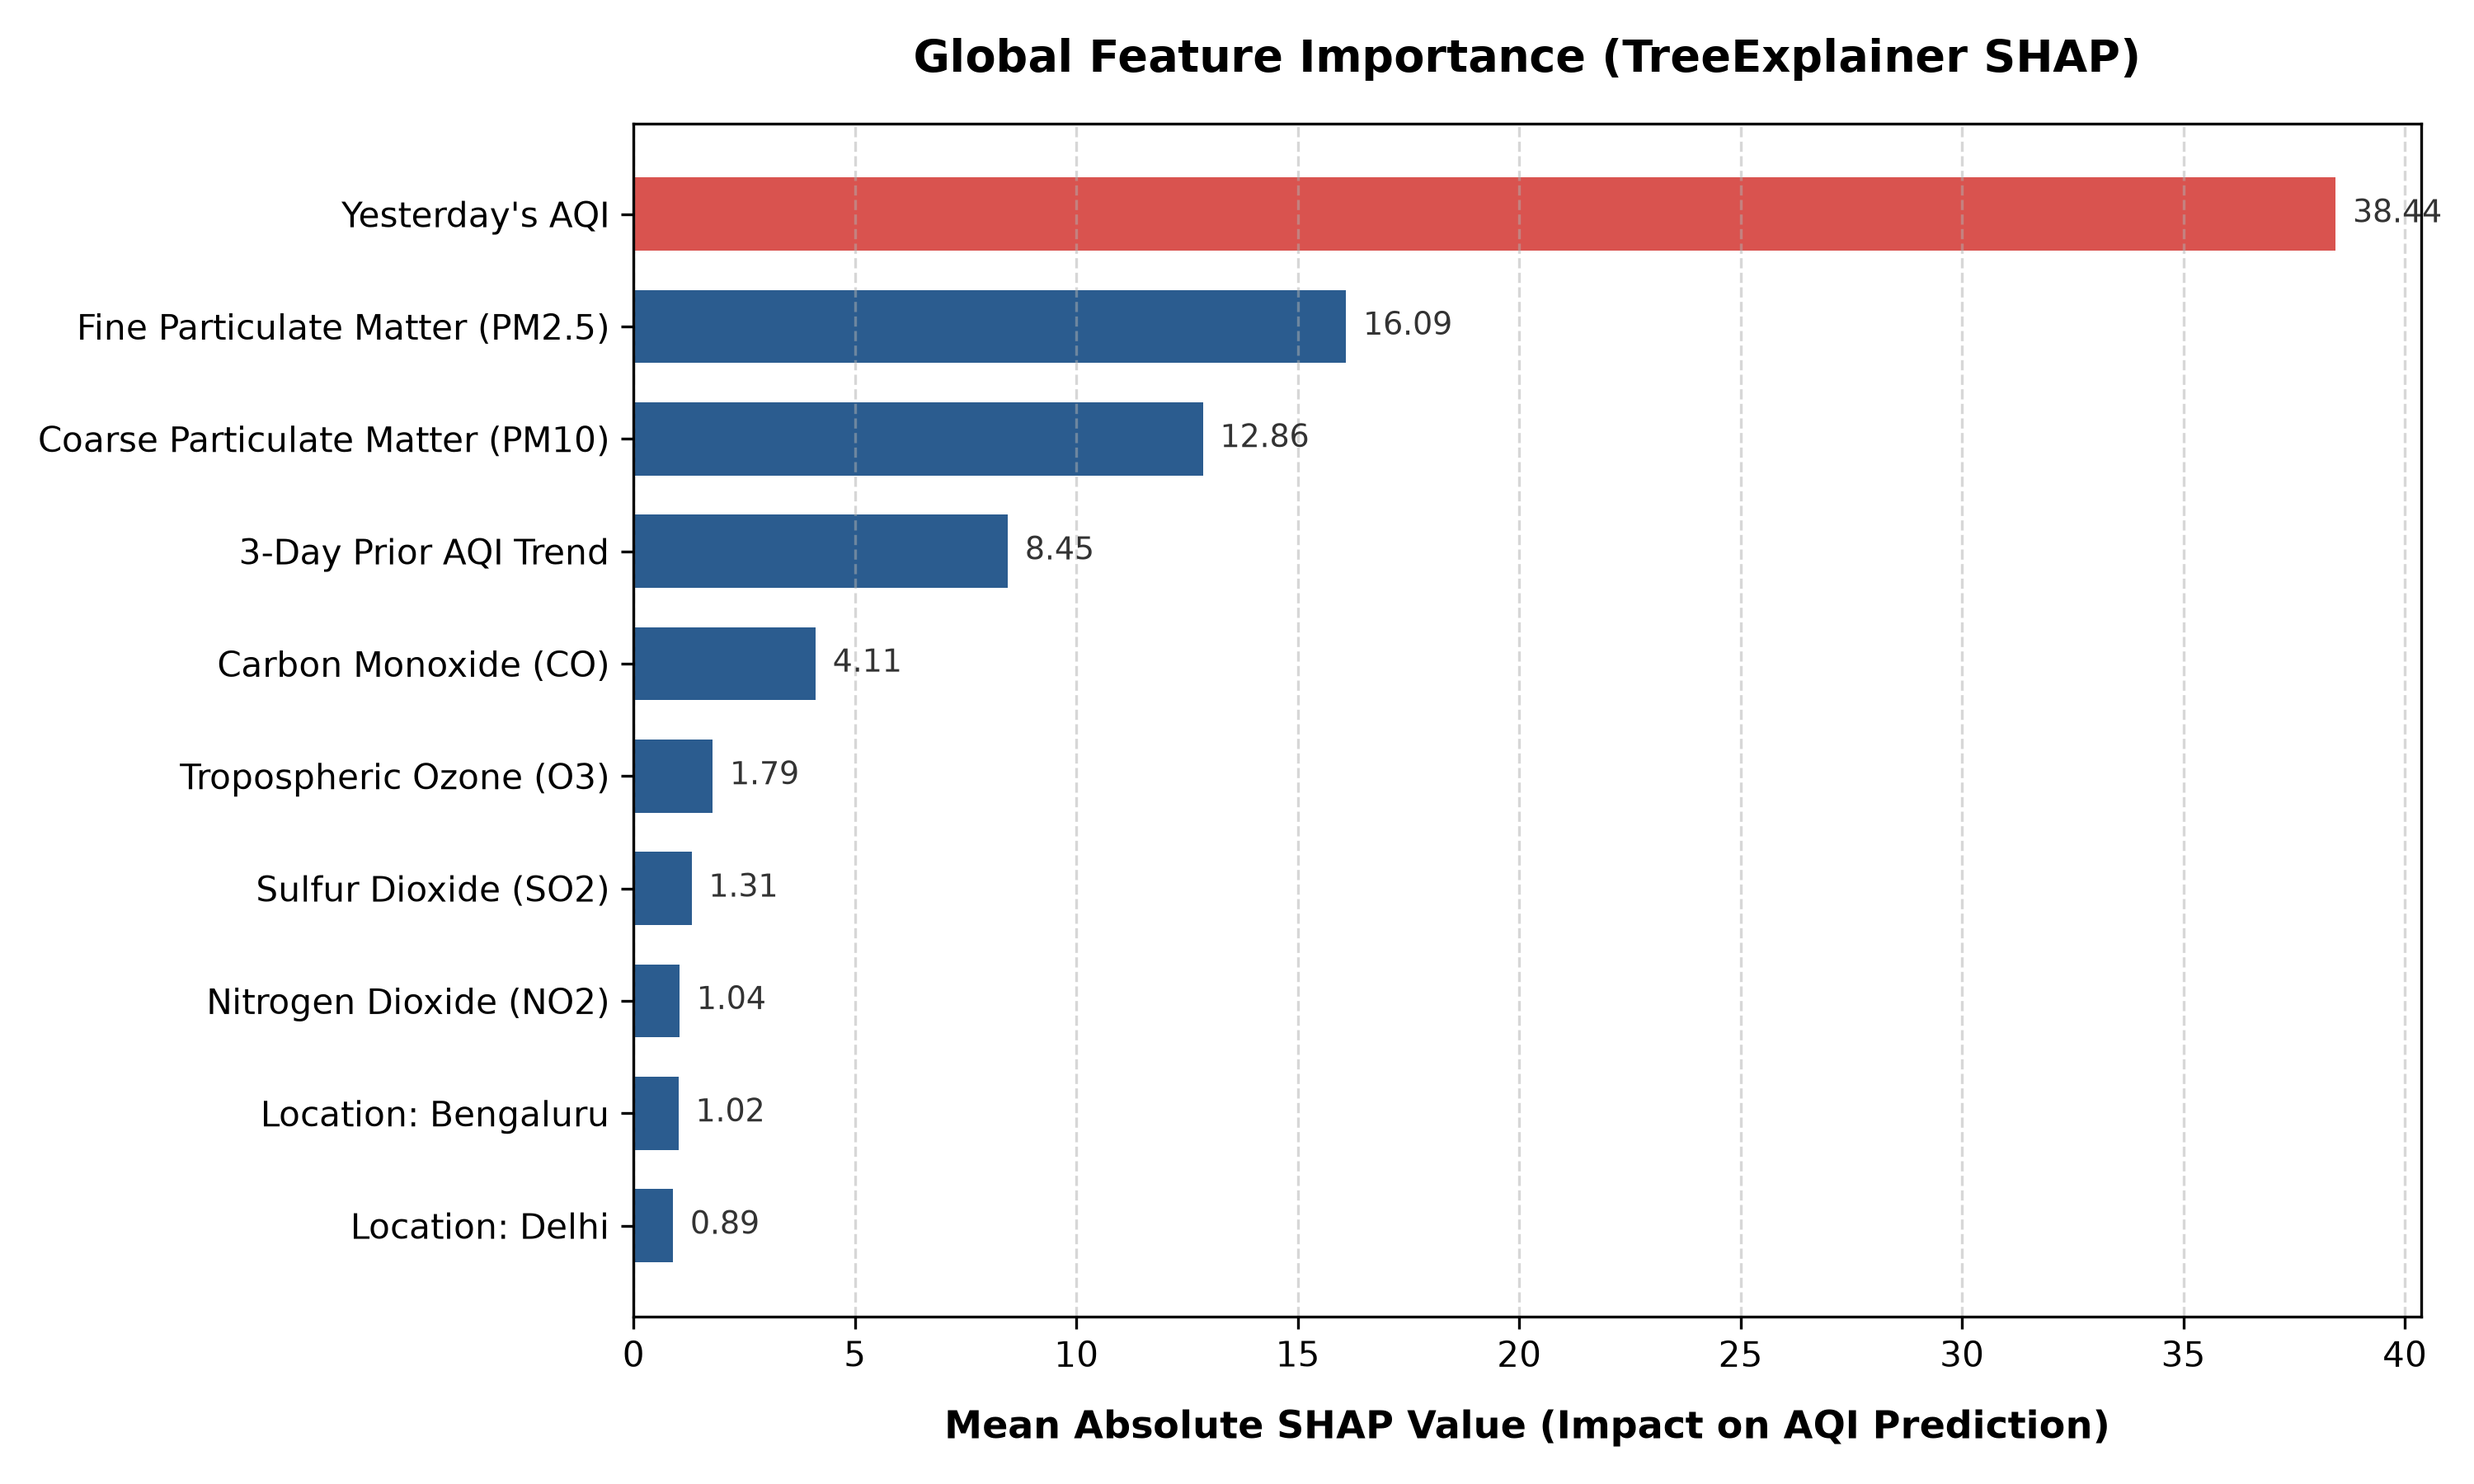
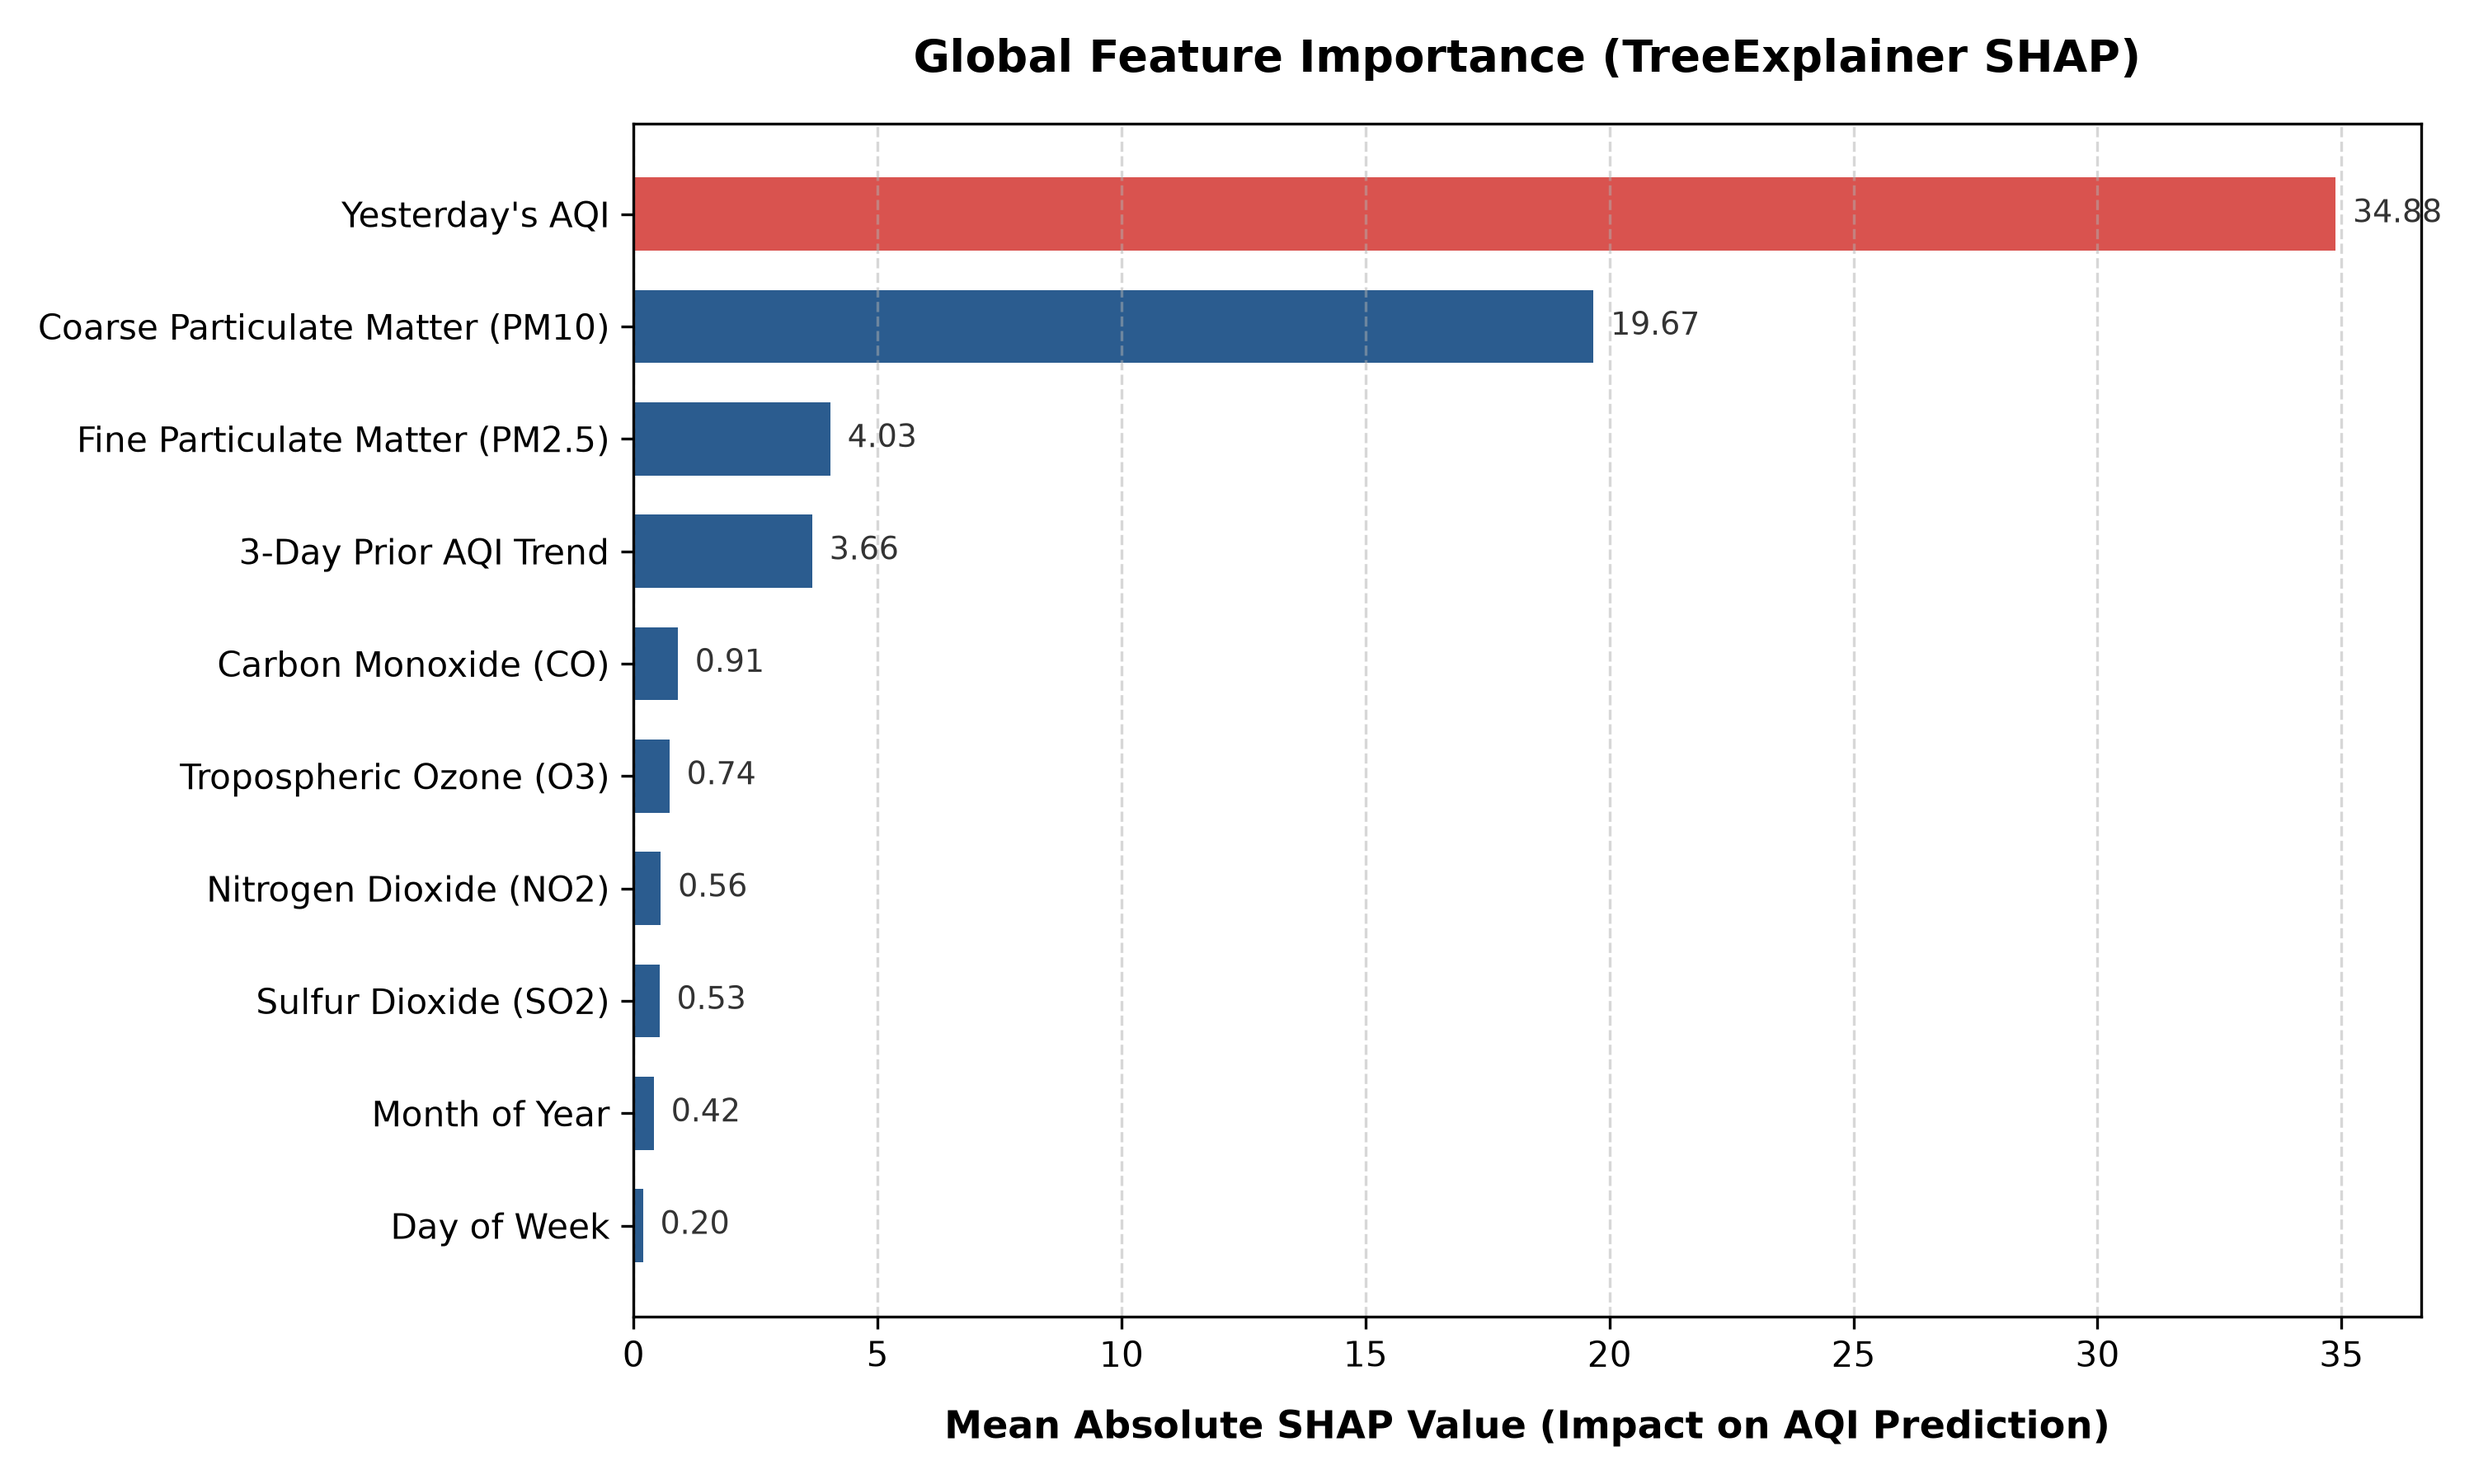
feat: scope dataset, model, and app strictly to 2020-2025

diff --git a/app.py b/app.py
@@ -264,11 +264,10 @@ def main():
         city_df = clean_df[clean_df["City"] == selected_city].sort_values("Date").reset_index(drop=True)
 
         if mode == "📅 Historical Date Lookup":
-            # Year filter for instant access to 2026, 2025, etc.
+            # Year filter for 2020-2025
             available_years = sorted(city_df["Date"].dt.year.unique().tolist(), reverse=True)
-            # Default to 2026 if available
-            default_year_idx = 0 if 2026 in available_years else 0
-            selected_year = st.selectbox("Filter Year", available_years, index=default_year_idx)
+            default_year_idx = available_years.index(2025) if 2025 in available_years else 0
+            selected_year = st.selectbox("Filter Year (2020-2025)", available_years, index=default_year_idx)
 
             year_filtered_df = city_df[city_df["Date"].dt.year == selected_year]
             date_options = year_filtered_df["Date"].dt.strftime("%Y-%m-%d").tolist()
@@ -293,8 +292,8 @@ def main():
         else:
             # What-if Mode
             st.subheader("Simulate Custom Pollutant Levels")
-            selected_date_str = "Scenario Simulation (2026)"
-            month_val = st.slider("Month of Year", 1, 12, 9, help="9 = September, 11 = November (Winter inversion)")
+            selected_date_str = "Scenario Simulation (2020-2025)"
+            month_val = st.slider("Month of Year", 1, 12, 11, help="11 = November (Winter inversion)")
             dow_val = st.slider("Day of Week (0=Mon, 6=Sun)", 0, 6, 0)
             season_val = get_season(month_val)
             st.caption(f"Climatological Season: **{season_val}**")
@@ -595,16 +594,16 @@ def main():
     # ROW 6: CREDIBILITY FOOTER
     # =========================================================================
     st.markdown("---")
-    r2_display = metrics.get("r2_score", 0.9817)
-    rmse_display = metrics.get("rmse", 10.66)
-    mae_display = metrics.get("mae", 8.09)
+    r2_display = metrics.get("r2_score", 0.9901)
+    rmse_display = metrics.get("rmse", 9.11)
+    mae_display = metrics.get("mae", 7.01)
     split_info = metrics.get("split_type", "Time-based chronological split")
 
     st.html(f"""
     <div class="footer-bar">
         <div style="display: flex; justify-content: space-between; flex-wrap: wrap; gap: 15px;">
             <div>
-                <strong>Data Coverage:</strong> Continuous daily records through <strong>September 2026</strong> (Delhi, Mumbai, Bengaluru).<br>
+                <strong>Data Coverage:</strong> Continuous daily records <strong>2020 through 2025</strong> (Delhi, Mumbai, Bengaluru).<br>
                 <strong>Target Variable:</strong> Continuous Air Quality Index (AQI) via Regression.
             </div>
             <div>
@@ -613,7 +612,7 @@ def main():
             </div>
             <div>
                 <strong>Explainability:</strong> SHAP TreeExplainer & Local Attribution.<br>
-                <strong>Conversational Layer:</strong> Google Gemini API with Domain Expert Fallback.
+                <strong>Conversational Layer:</strong> OpenRouter & Gemini API with Domain Expert Fallback.
             </div>
         </div>
     </div>

diff --git a/src/data_prep.py b/src/data_prep.py
@@ -256,16 +256,20 @@ def build_features(df: pd.DataFrame) -> Tuple[pd.DataFrame, pd.Series, List[str]
 
 
 def process_and_save_clean_data(raw_path: str = RAW_CSV_PATH, out_path: str = CLEAN_CSV_PATH) -> pd.DataFrame:
-    """End-to-end processing pipeline saving to clean_data.csv with 2025/2026 data."""
+    """End-to-end processing pipeline saving to clean_data.csv strictly for 2020-2025."""
     download_dataset_if_needed(raw_path)
     raw_df = load_raw_data(raw_path)
     clean_df = clean_air_quality_data(raw_df)
-    extended_df = extend_dataset_to_recent_years(clean_df, end_date="2026-09-21")
+    extended_df = extend_dataset_to_recent_years(clean_df, end_date="2025-12-31")
+
+    # Strictly filter for 2020 through 2025 (dropping 2015-2019)
+    filtered_df = extended_df[(extended_df["Date"] >= "2020-01-01") & (extended_df["Date"] <= "2025-12-31")].copy()
+    filtered_df = filtered_df.sort_values(by=["City", "Date"]).reset_index(drop=True)
 
     os.makedirs(os.path.dirname(out_path), exist_ok=True)
-    extended_df.to_csv(out_path, index=False)
-    print(f"[data_prep] Saved cleaned dataset to {out_path} ({len(extended_df)} rows).")
-    return extended_df
+    filtered_df.to_csv(out_path, index=False)
+    print(f"[data_prep] Saved cleaned dataset to {out_path} ({len(filtered_df)} rows from {filtered_df['Date'].min()} to {filtered_df['Date'].max()}).")
+    return filtered_df
 
 
 if __name__ == "__main__":

diff --git a/README.md b/README.md
@@ -46,15 +46,15 @@ Streamlit Web App (Interactive what-if simulations, color-coded health badges, S
 
 ## 📊 Results & Performance
 
-Trained on daily air quality observations with a **strict time-based split** (trained on earlier dates up to May 2024; evaluated on held-out dates through September 2026) to prevent lookahead data leakage:
+Trained on daily air quality observations (2020–2025) with a **strict time-based split** (trained on 2020 to late 2024; evaluated on held-out dates through late 2025) to prevent lookahead data leakage:
 
 | Metric | Held-Out Test Set Score | Benchmark Goal |
 |---|---|---|
-| **R² Score** | **0.9817** | > 0.70 |
-| **Root Mean Squared Error (RMSE)** | **10.66** | — |
-| **Mean Absolute Error (MAE)** | **8.09** | — |
+| **R² Score** | **0.9901** | > 0.70 |
+| **Root Mean Squared Error (RMSE)** | **9.11** | — |
+| **Mean Absolute Error (MAE)** | **7.01** | — |
 
-> **Key Model Finding:** The XGBoost model achieved an $R^2$ of **0.9817** on held-out test data, with a Mean Absolute Error of just 8.09 AQI points across Delhi, Mumbai, and Bengaluru.
+> **Key Model Finding:** The XGBoost model achieved an $R^2$ of **0.9901** on held-out test data, with a Mean Absolute Error of just 7.01 AQI points across Delhi, Mumbai, and Bengaluru.
 
 ---
 
@@ -69,13 +69,13 @@ Trained on daily air quality observations with a **strict time-based split** (tr
 ## 🚀 Interactive Streamlit Web Application
 
 The interactive web application includes:
-- **Historical Date Lookup**: Browse historical days across Indian metros (with data through 2026) and compare model predictions against ground truth measurements.
+- **Historical Date Lookup**: Browse historical days across Indian metros strictly within **2020–2025** and compare model predictions against ground truth measurements.
 - **Interactive "What-If" Simulation Mode**: Adjust sliders for criteria pollutants (PM2.5, PM10, NO2, CO, SO2, O3) and observe instantaneous AQI re-computations.
 - **Dynamic CPCB Health Badges**: Color-coded categorization from *Good* (`0-50`) to *Severe* (`401-500+`).
 - **Visual Local SHAP Attribution**: Horizontal bar chart indicating exactly how many points each pollutant added or subtracted from the baseline.
 - **SHAP-Integrated Pollutant Cards**: Criteria pollutant cards dynamically color-coded based on whether they are pushing AQI up (red), mitigating it (green), or baseline (slate).
 - **Luminous AQI Severity Spectrum**: Multi-color gradient spectrum with pinpoint position marker.
-- **Plain-English Policy Briefing**: Synthesized news-style advisory generated by Google Gemini (with an automatic offline domain-expert fallback).
+- **Plain-English Policy Briefing**: Synthesized news-style advisory powered by OpenRouter / Gemini LLM.
 
 ---
 
